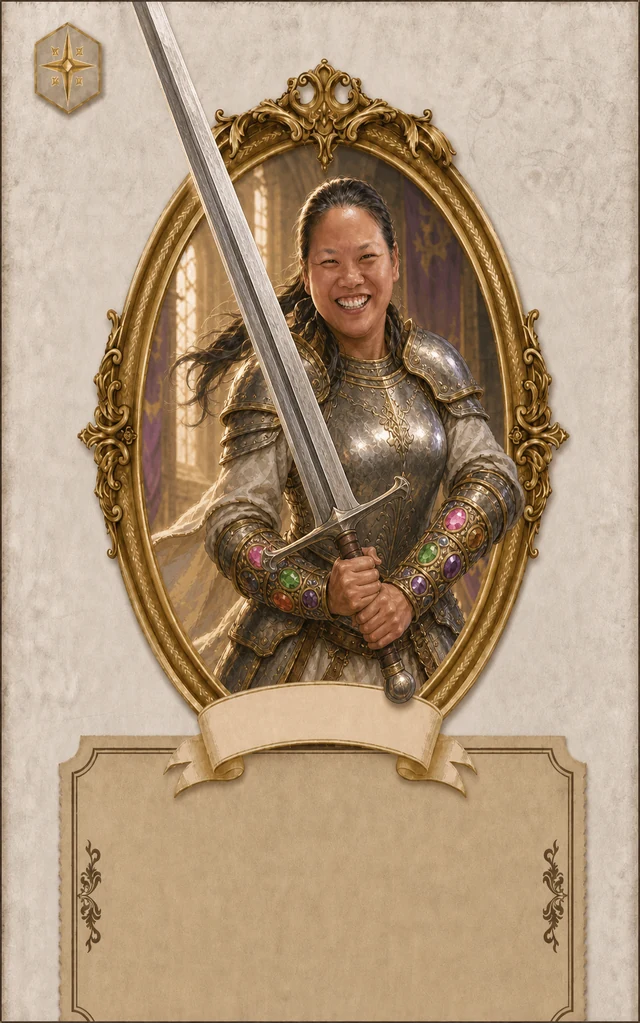
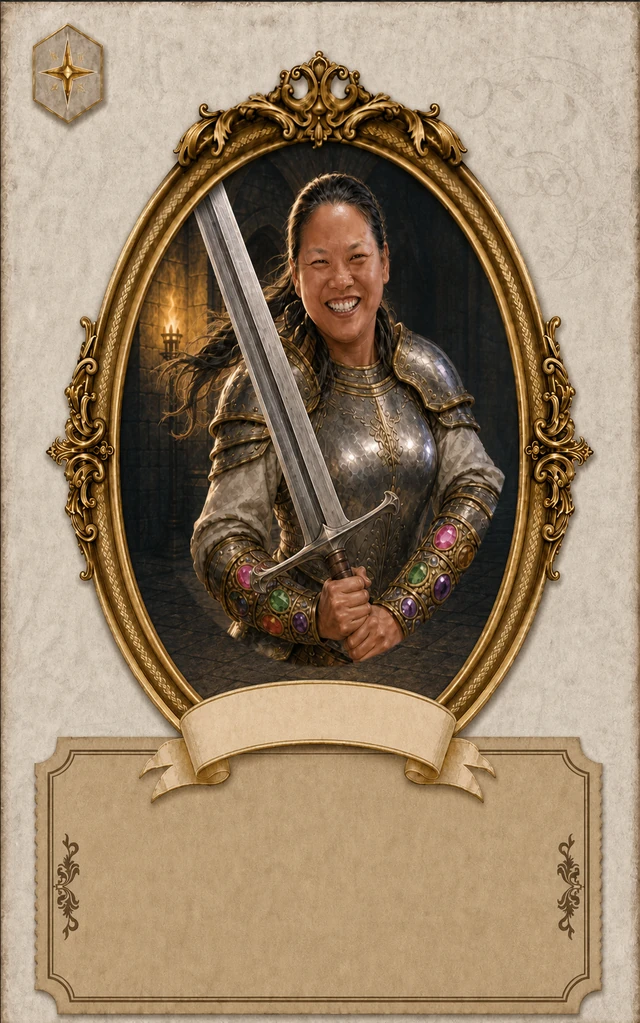
Redraw member cards on the shared gold-frame template.
Keep in-match CardItem overlay unchanged by restoring the previous layout, and bust the card image cache so the new portraits load.

diff --git a/frontend/src/components/CardItem.vue b/frontend/src/components/CardItem.vue
@@ -2,11 +2,9 @@
   <div
     class="card-item"
     :class="[`card-${type}`, { disabled }]"
+    :style="cardRootStyle"
     @click="!disabled && $emit('play')"
   >
-    <div class="card-art" :style="cardArtStyle"></div>
-    <div class="card-name-ribbon" aria-hidden="true"></div>
-    <div class="card-desc-plate" aria-hidden="true"></div>
     <span class="card-cost">{{ cost }}</span>
     <span class="card-dept">{{ displayDept }}</span>
     <strong class="card-name">{{ name }}</strong>
@@ -31,9 +29,10 @@ import { computed, nextTick, onBeforeUnmount, onMounted, ref, watch } from 'vue'
 import { Switch, Aim, Download, Delete, MagicStick, Lightning, FirstAidKit, CirclePlus } from '@element-plus/icons-vue'
 import { getImageUrl } from '@/utils/imageUrl'
 import { displayCardDept } from '@/utils/cardDept'
+import { cardNameTopPercent } from '@/utils/cardOverlay'
 import fallbackBg from '@/assets/card-background1.webp'
 
-const DESC_MAX_PX = 16
+const DESC_MAX_PX = 18
 const DESC_MIN_PX = 9
 const DESC_LINE_HEIGHT = 1.2
 
@@ -56,9 +55,18 @@ const descRef = ref<HTMLElement | null>(null)
 const descFontPx = ref(DESC_MAX_PX)
 let resizeObserver: ResizeObserver | null = null
 
-const cardArtStyle = computed(() => {
+const cardBgStyle = computed(() => {
   const img = getImageUrl(props.imageUrl) || fallbackBg
-  return { backgroundImage: `url('${img}')` }
+  return { background: `url('${img}') center/100% 100% no-repeat` }
+})
+
+const cardRootStyle = computed(() => {
+  const nameTop = cardNameTopPercent(props.imageUrl, props.name)
+  return {
+    ...cardBgStyle.value,
+    '--card-name-top': `${nameTop}%`,
+    '--card-desc-top': `${Math.min(nameTop + 3.9, 82)}%`,
+  }
 })
 
 const displayDept = computed(() => displayCardDept(props.dept, props.imageUrl, props.dept))
@@ -106,18 +114,18 @@ const typeIcon = computed(() => {
 
 const typeLabel = computed(() => {
   const labels: Record<string, string> = {
-    defend: '防御',
-    attack: '攻击',
-    draw: '过牌',
-    consume: '消耗',
-    support: '辅助',
-    attack_defend: '攻防',
-    special: '特殊',
-    trigger: '触发',
-    heal: '治疗',
-    buff: '增益',
+    defend: '???',
+    attack: '???',
+    draw: '???',
+    consume: '????,
+    support: '???',
+    attack_defend: '???',
+    special: '???',
+    trigger: '???',
+    heal: '???',
+    buff: '???',
   }
-  return labels[props.type] || props.type || '特殊'
+  return labels[props.type] || props.type || '???'
 })
 
 onMounted(() => {
@@ -151,7 +159,6 @@ onBeforeUnmount(() => {
   user-select: none;
   position: relative;
   overflow: hidden;
-  background: #e6d4a8;
 }
 .card-item:hover:not(.disabled) {
   transform: translateY(-6px);
@@ -161,58 +168,6 @@ onBeforeUnmount(() => {
 .card-item.disabled {
   opacity: 0.38;
   cursor: not-allowed;
-}
-
-.card-art {
-  position: absolute;
-  inset: 0;
-  z-index: 0;
-  background-position: center;
-  background-size: 100% 100%;
-  background-repeat: no-repeat;
-  pointer-events: none;
-  -webkit-mask-image: linear-gradient(
-    to bottom,
-    #000 0%,
-    #000 64%,
-    rgba(0, 0, 0, 0.55) 68%,
-    transparent 72.5%
-  );
-  mask-image: linear-gradient(
-    to bottom,
-    #000 0%,
-    #000 64%,
-    rgba(0, 0, 0, 0.55) 68%,
-    transparent 72.5%
-  );
-}
-
-.card-name-ribbon {
-  position: absolute;
-  top: 68.8%;
-  left: 16%;
-  right: 16%;
-  height: 6.2%;
-  z-index: 1;
-  pointer-events: none;
-  background: linear-gradient(180deg, #f3e6c8 0%, #e6d3a8 52%, #d7c08c 100%);
-  border: 1px solid rgba(122, 86, 40, 0.35);
-  border-radius: 40% / 70%;
-  box-shadow: 0 1px 2px rgba(40, 24, 8, 0.22);
-}
-
-.card-desc-plate {
-  position: absolute;
-  top: 74.2%;
-  left: 10.5%;
-  right: 10.5%;
-  bottom: 7.2%;
-  z-index: 1;
-  pointer-events: none;
-  background: linear-gradient(180deg, #e2cfab 0%, #d4bc90 100%);
-  border: 1px solid rgba(90, 62, 36, 0.32);
-  border-radius: 6px;
-  box-shadow: inset 0 0 0 1px rgba(255, 244, 214, 0.28);
 }
 
 .card-cost {
@@ -244,11 +199,11 @@ onBeforeUnmount(() => {
 
 .card-name {
   position: absolute;
-  top: 71.9%;
+  top: var(--card-name-top, 72.2%);
   left: 50%;
   transform: translate(-50%, -50%);
   width: 62%;
-  font-size: calc(var(--text-base) * 1.55);
+  font-size: calc(var(--text-base) * 1.7);
   line-height: 1;
   color: #3E2723;
   text-align: center;
@@ -257,13 +212,12 @@ onBeforeUnmount(() => {
   text-overflow: ellipsis;
   z-index: 2;
   pointer-events: none;
-  text-shadow: 0 0 4px rgba(243, 230, 200, 0.9);
 }
 
 .card-desc-box {
   position: absolute;
-  top: 75.6%;
-  bottom: 10.5%;
+  top: var(--card-desc-top, 76%);
+  bottom: 8%;
   left: 13%;
   right: 13%;
   display: flex;
@@ -273,7 +227,7 @@ onBeforeUnmount(() => {
   z-index: 2;
   pointer-events: none;
   box-sizing: border-box;
-  padding: 2px 4px;
+  padding: 4px 3px;
 }
 
 .card-desc {
@@ -329,7 +283,7 @@ onBeforeUnmount(() => {
 .tag-support      { background: rgba(22, 160, 133, 0.72); color: #3E2723; }
 .tag-attack_defend{ background: rgba(201, 107, 43, 0.72); color: #3E2723; }
 .tag-special      { background: rgba(155, 89, 182, 0.72); color: #3E2723; }
+.tag-trigger      { background: rgba(230, 126, 34, 0.72); color: #3E2723; }
 .tag-heal         { background: rgba(39, 174, 96, 0.72); color: #3E2723; }
 .tag-buff         { background: rgba(41, 128, 185, 0.72); color: #3E2723; }
-.tag-trigger      { background: rgba(230, 126, 34, 0.72); color: #3E2723; }
 </style>

diff --git a/frontend/src/utils/imageUrl.ts b/frontend/src/utils/imageUrl.ts
@@ -20,7 +20,7 @@ export function getImageUrl(path: string | null | undefined): string | null {
   const url = `${BACKEND_HTTP_BASE}${webpPath}`
   // 顾客立绘、卡面曾被长缓存；换 query 才能立刻拿到新图
   if (/\/images\/(customer|cards)\//i.test(webpPath)) {
-    return `${url}?v=20260826e`
+    return `${url}?v=20260902a`
   }
   return url
 }
